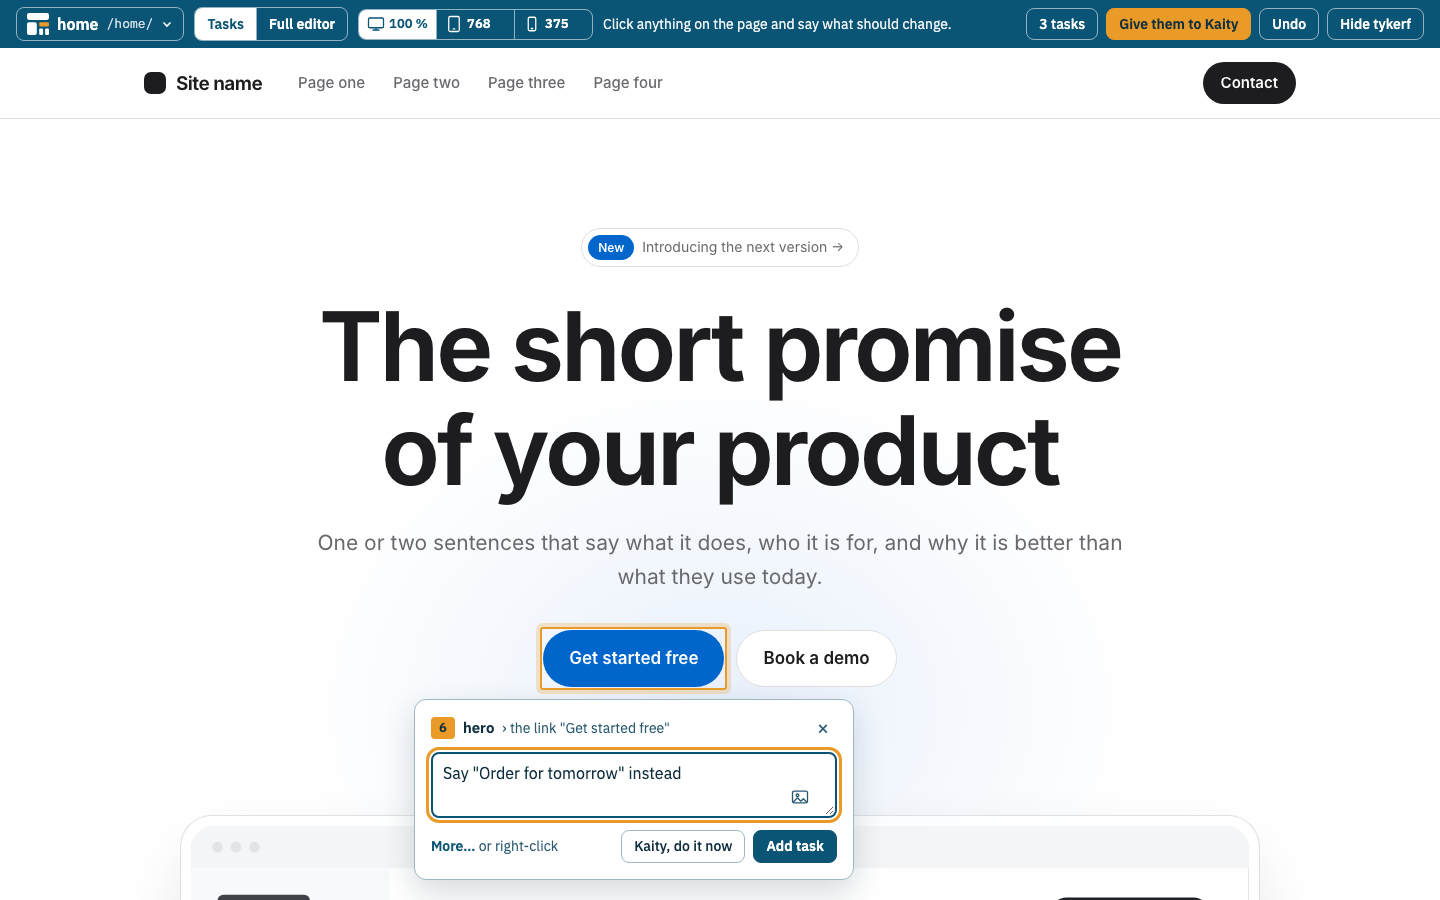
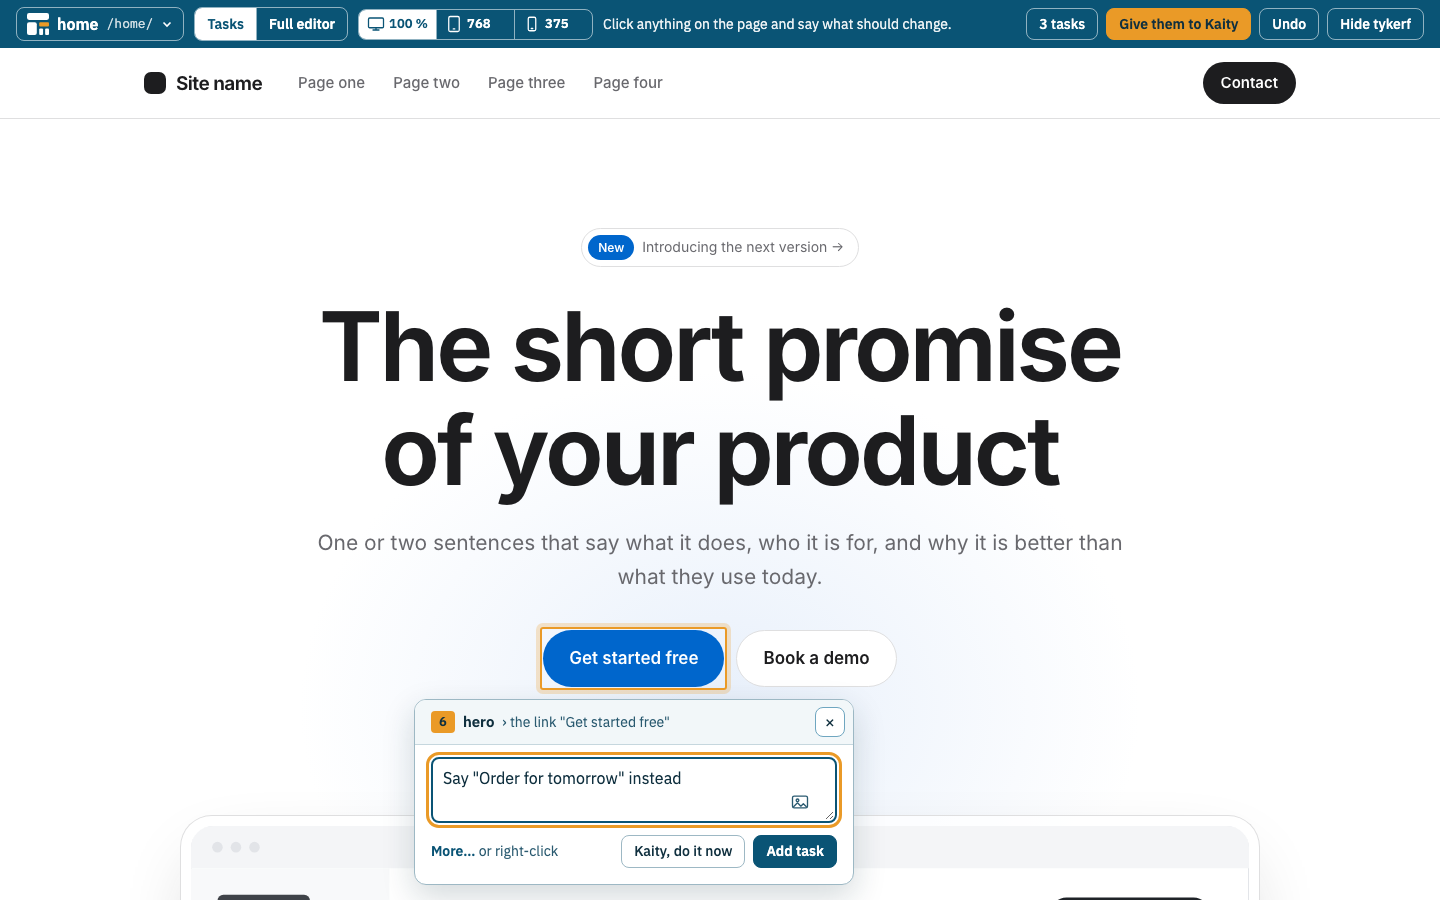
v3, round 1, fulledit header for tasks

Changed region(s): [[0.2812, 0.8711, 0.5938, 0.9956], [0.2812, 0.7778, 0.5938, 0.8711]]

diff --git a/src/editor/public/shell/shell.css b/src/editor/public/shell/shell.css
@@ -99,16 +99,18 @@ button, input, textarea, select { font: inherit; color: inherit; }
 .compare .row { display: flex; justify-content: flex-end; }
 
 /* the task box, anchored to the element it is about */
-.taskbox { position: absolute; width: min(440px, calc(100% - 24px)); padding: 14px 16px 16px; border: 1px solid var(--line-strong); border-radius: 12px; background: #fff; box-shadow: 0 12px 32px rgb(16 48 63 / .18); pointer-events: auto; }
-.taskbox .where { display: flex; align-items: center; gap: 8px; margin: 0 0 10px; font-size: 14px; color: var(--ink-2); }
+.taskbox { position: absolute; width: min(440px, calc(100% - 24px)); padding: 0 16px 16px; border: 1px solid var(--line-strong); border-radius: 12px; background: #fff; box-shadow: 0 12px 32px rgb(16 48 63 / .18); pointer-events: auto; }
+/* its header: light, as the full editor's (tykerf.css :host(.embedded) .head), with the same × */
+.taskbox .where { display: flex; align-items: center; gap: 8px; min-height: 44px; margin: 0 -16px 12px; padding: 7px 8px 7px 16px; border-bottom: 1px solid var(--line); border-radius: 11px 11px 0 0; background: var(--ground); font-size: 14px; color: var(--ink-2); }
 .taskbox .where b { flex: none; color: var(--ink); font-size: 15px; }
 .taskbox .where .what { min-width: 0; overflow: hidden; text-overflow: ellipsis; white-space: nowrap; }
 .taskbox .where .chip { flex: none; padding: 0 6px; border-radius: 4px; background: var(--tag); color: var(--ink); font-size: 12px; font-weight: 600; line-height: 20px; }
 .taskbox .where button.num { flex: none; border: 0; cursor: pointer; }
 .taskbox .where button.num.q { border: 1px solid var(--bar); }
 .taskbox .where button.num:focus-visible { outline: 3px solid var(--bar); outline-offset: 1px; }
-.taskbox .where .x { flex: none; margin-left: auto; width: 28px; height: 28px; padding: 0; border: 0; border-radius: 6px; background: none; color: var(--ink-2); font-size: 20px; line-height: 1; cursor: pointer; }
-.taskbox .where .x:hover, .taskbox .where .x:focus-visible { background: var(--selected); color: var(--ink); outline: none; }
+.taskbox .where .x { flex: none; margin-left: auto; width: 30px; height: 30px; padding: 0; border: 1px solid #6FA6C0; border-radius: 8px; background: #fff; color: var(--ink); font-size: 17px; line-height: 1; cursor: pointer; }
+.taskbox .where .x:hover { background: var(--selected); }
+.taskbox .where .x:focus-visible { outline: 3px solid var(--task); outline-offset: 2px; }
 .taskbox .field { position: relative; }
 .taskbox .addpic { position: absolute; right: 22px; bottom: 6px; display: grid; place-items: center; width: 30px; height: 30px; padding: 0; border: 0; border-radius: 6px; background: #fff; color: var(--ink-2); cursor: pointer; }
 .taskbox .addpic:hover, .taskbox .addpic:focus-visible { background: var(--selected); color: var(--bar); outline: none; }

diff --git a/src/editor/public/tykerf.css b/src/editor/public/tykerf.css
@@ -618,3 +618,12 @@ textarea.code { flex: 1; min-height: 120px; font: var(--mono); tab-size: 2; whit
 :host(.embedded) .item .chip.shared { font-size: 11px; font-weight: 600; padding: 0 6px; border-radius: 4px; margin-left: 6px; }
 /* compacted while the site's sidebar is open (the shell asks: tykerfSidebar) */
 .compacted-note { flex: none; color: var(--muted); font-size: 13px; white-space: nowrap; }
+/* what the full editor shares with the task box: the amber of the block in focus. The block's name in the header is
+   underlined in it (as the frame round the block on the page), and a field being typed in, or anything reached with
+   the keyboard, gets the task box's amber ring */
+:host(.embedded) .path button[aria-current] { box-shadow: inset 0 -2px 0 var(--focus); border-radius: 5px 5px 0 0; }
+:host(.embedded) :focus-visible { outline: 3px solid var(--focus); outline-offset: 2px; }
+:host(.embedded) :is(input, textarea, select):focus, :host(.embedded) .w-name:focus { outline: 3px solid var(--focus); outline-offset: 1px; border-color: var(--focus-under); }
+:host(.embedded) .menu button:focus-visible, :host(.embedded) .pop .mini:focus-visible { outline: none; }
+/* room for that ring where the fields scroll (it would be cut at their edges) */
+:host(.embedded) .fields { padding: 5px 6px 5px 5px; margin: -5px -6px -5px -5px; }

diff --git a/docs/developer-guide/en/editor.md b/docs/developer-guide/en/editor.md
@@ -111,7 +111,7 @@ The editor people use is one **shell**: `public/shell.html`, at `/_tykerf/edit/<
 - **The page is in a frame**, at its own address with `?tykerf=frame`: `page.ts` serves it as it is, without `tykerf.js`. The frame is as wide as the window, under the bar, so the page lays out at its real width. `frame.js` is the only code that touches the page's document (same origin): it turns clicks into picks (links, buttons and forms don't react), finds the block and the element path (`inline.js`), measures elements, and swaps new content in place after a change (`/_tykerf/page`), as `reloadPage` does here. A change to the head reloads the frame.
 - **Nothing is drawn inside the page.** Outlines, pins and the task box are in the shell's own document, in `.overlay` over the frame, placed from the elements' boxes in the frame and redrawn on its scroll, resize and content changes.
 - **The bar** (`renderBar`): the page switcher (it opens the site sidebar), a hint or Kaity's status, the task count (opens the tray), **Give them to Kaity** (`POST /_tykerf/taskrun/start`; **Stop Kaity** while she works, **Keep what she did** after), **Undo** (its title names the step, task changes included) and **Hide tykerf**; after the page switcher, *Tasks | Full editor* (`.modes`) switches the shell's mode (the box being fixed goes along).
-- **Full editor mode** (`FULL`, `?mode=full`): the frame loads `?tykerf=full-frame` (with the block and tab the address asked for, once), `frame.js` stays passive (no picks, no pins, no overlay), refreshes and jobs are the full editor's own, and the bar keeps the page switcher, the modes, the task count and Hide tykerf. Page cards in the sidebar and moves keep the mode (`shellOf`). Embedded (`EMBEDDED`, the `embedded` class on its host), the full editor's header is light with the tykerf sign, its words without icons except the theme presets' colour dots (`:host(.embedded)` rules at the end of `tykerf.css`; on its own it keeps the dark header). While the site sidebar is open (not folded) it compacts beside it: `layoutStage` calls the frame's `tykerfSidebar(edge)` with the sidebar's right edge in the frame's pixels (`sidebarEdge`, null when closed), and a full editor that loads with the sidebar open asks `window.top.tykerfSidebarEdge()` (unless it was opened on a block). `siteSidebar` keeps how the panel was (`bySite`) and compacts it with `setMin(true, false)`, which isn't remembered; closing puts it back. The person's own Compact / See more, or anything that opens the panel, ends it; a drag meanwhile is kept.
+- **Full editor mode** (`FULL`, `?mode=full`): the frame loads `?tykerf=full-frame` (with the block and tab the address asked for, once), `frame.js` stays passive (no picks, no pins, no overlay), refreshes and jobs are the full editor's own, and the bar keeps the page switcher, the modes, the task count and Hide tykerf. Page cards in the sidebar and moves keep the mode (`shellOf`). Embedded (`EMBEDDED`, the `embedded` class on its host), the full editor's header is light with the tykerf sign, its words without icons except the theme presets' colour dots, and the task box's amber where they meet: the selected block's name in the header is underlined in it, and fields and keyboard focus get the task box's amber ring; the task box's header is the same light band with the same × (`.taskbox .where`) (`:host(.embedded)` rules at the end of `tykerf.css`; on its own it keeps the dark header). While the site sidebar is open (not folded) it compacts beside it: `layoutStage` calls the frame's `tykerfSidebar(edge)` with the sidebar's right edge in the frame's pixels (`sidebarEdge`, null when closed), and a full editor that loads with the sidebar open asks `window.top.tykerfSidebarEdge()` (unless it was opened on a block). `siteSidebar` keeps how the panel was (`bySite`) and compacts it with `setMin(true, false)`, which isn't remembered; closing puts it back. The person's own Compact / See more, or anything that opens the panel, ends it; a drag meanwhile is kept.
 - **The task box** (`renderBox`) is anchored to the element clicked, in three rows: one line with the number (a button: it turns into *Question* by itself when the text ends with `?`, until the person clicks it to choose), the block (its tooltip: Kaity changes only it), the element in words (`plainLabel` of the task's label), a width chip only away from full width, and ×; the field, whose placeholder says what to write; **Kaity, do it now** (adds the task and hands over only it) and **Add task**. Everything else is in the right-click menu, which *More… or right-click* at the row's left opens from the box (`openMenu`'s `at`: the box stays, with its text, and the menu leaves out the task and the question; Escape closes only the menu) (Fix it by hand, *Ask a question here…* which opens it as a question, editing words, boxes). The picture button in the field's corner (or a paste or drop on the box) attaches up to 5 pictures, scaled down as Kaity's are (`shrinkImage` in `common.js`); `/tasks/add` keeps them as her attachments are (`AI.keepImage`, `.tykerf/images/`) and the task stores their names (`Task.images`), which `TaskRun` reads back (`AI.attachment`) and sends with the task.
 - **The tray** (`renderTray`) lists the page's open tasks and questions as cards (with their pictures, `pics`), with *Show on the page*, *Mark done* (not for a question) and *Remove*. In Full editor mode the bar's task count is a link to Tasks: the tray is Tasks' own.
 - **Kaity at work and the review** follow the task run's state (`setRun`, from `/_tykerf/state` and the SSE `taskrun` event). While she works the bar says *task i of n* with a chip for the task she is on, with **Stop Kaity**, **Undo all she did** (she stops first, then her work goes) and *Hide / Show the steps*; the tray opens by itself (unless the person closed it during the run) with one card per task (`runCard`): *now* with her latest step, *waiting* with *Take it off her list*, *done* with her summary. On the page her element is outlined with *n · Kaity is here* on its corner, and the page scrolls to it unless the person scrolled in the last 6 s (`followKaity`). When she stops, the bar sums the run up (`runSum`: "2 done, 1 answered, 1 needs you") with **Keep the n changes** (`/taskrun/keep`) and **Undo all she did**. A done task has a check that fits it (`check`: *See it on a phone* when it was written narrow or speaks of phones, which shows the frame at 375 px (`setDevice('phone')`); *Try the button* / *Try the link* for those elements, which lets the page react until *Done trying*, a link elsewhere only saying where it leads), *Before and after* (her pictures, in a dialog), *Undo this one*, *Ask for more* (a new task on the same element, given to her at once; during a run it joins her list) and *See her conversation on <block>* (`conversation`: the block's chat, `GET /_tykerf/chat`, read only in a dialog; also `?conversation=<block>`, the Kaity screen's links). What a task left unfinished (`RunTask.left`, from the `check` an `AI.ask` run with a tag now reports to `onEnd`) shows on its card (`leftNote`) with **Fix them** (`/taskrun/fix`: `TaskRun.fix` queues the task again with `fix`, and `fixLeft` runs `AI.fix` on that check under the task's tag, so *Undo this one* takes both) and **Leave them as they are** (`/taskrun/leave-left`, `AI.leave` on that check, `.tykerf/kept.json`). A task she needs the person for shows her question with an answer field, **Answer and continue** and *Leave it for later*; an answered question shows the question and her answer, *Ask a follow-up* and *Got it* (`/taskrun/seen`). Finished tasks' pins read *n done* until the review is kept.

diff --git a/docs/user-guide/en/editor.md b/docs/user-guide/en/editor.md
@@ -101,7 +101,7 @@ The full editor is the expert way, beside tasks, for long manual work: restructu
 
 ### The panel
 
-Drag it by its header and resize it from its corner; it remembers where you left it. **Compact** makes it small, only its header; **See more** opens it again. **×** closes the full editor and goes back to Tasks. On phones it docks at the bottom. Its header is light, under the bar, with the tykerf mark so it never looks like part of the page. While [the site](sites.md#the-sites-screens) is open on the left, the editor makes itself compact beside it (*Compacted while the site is open*), so the page stays in view; closing the site brings it back as it was. **See more** opens it anyway.
+Drag it by its header and resize it from its corner; it remembers where you left it. **Compact** makes it small, only its header; **See more** opens it again. **×** closes the full editor and goes back to Tasks. On phones it docks at the bottom. Its header is light, under the bar, with the tykerf mark so it never looks like part of the page; the selected block's name is underlined in amber, the colour of the task box and of the frame round the block. While [the site](sites.md#the-sites-screens) is open on the left, the editor makes itself compact beside it (*Compacted while the site is open*), so the page stays in view; closing the site brings it back as it was. **See more** opens it anyway.
 
 | Zone | What it shows |
 |---|---|
